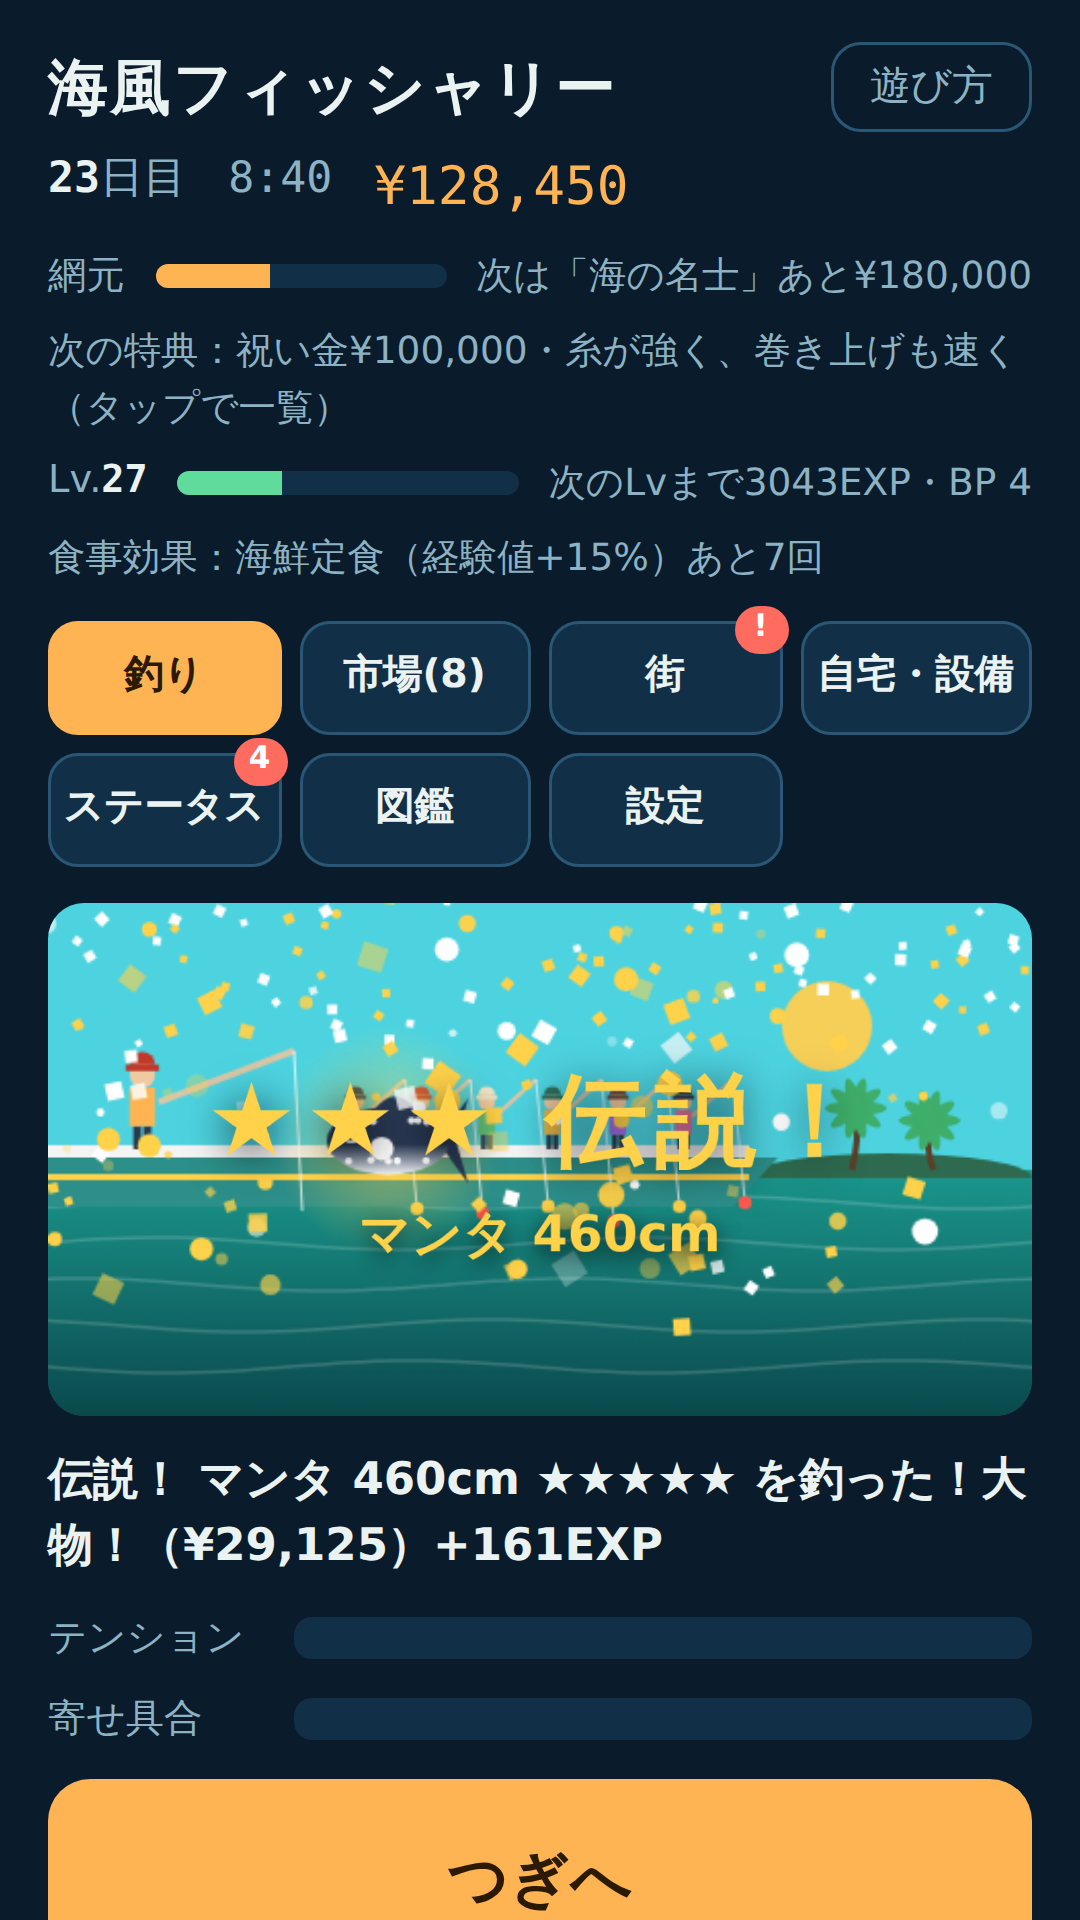
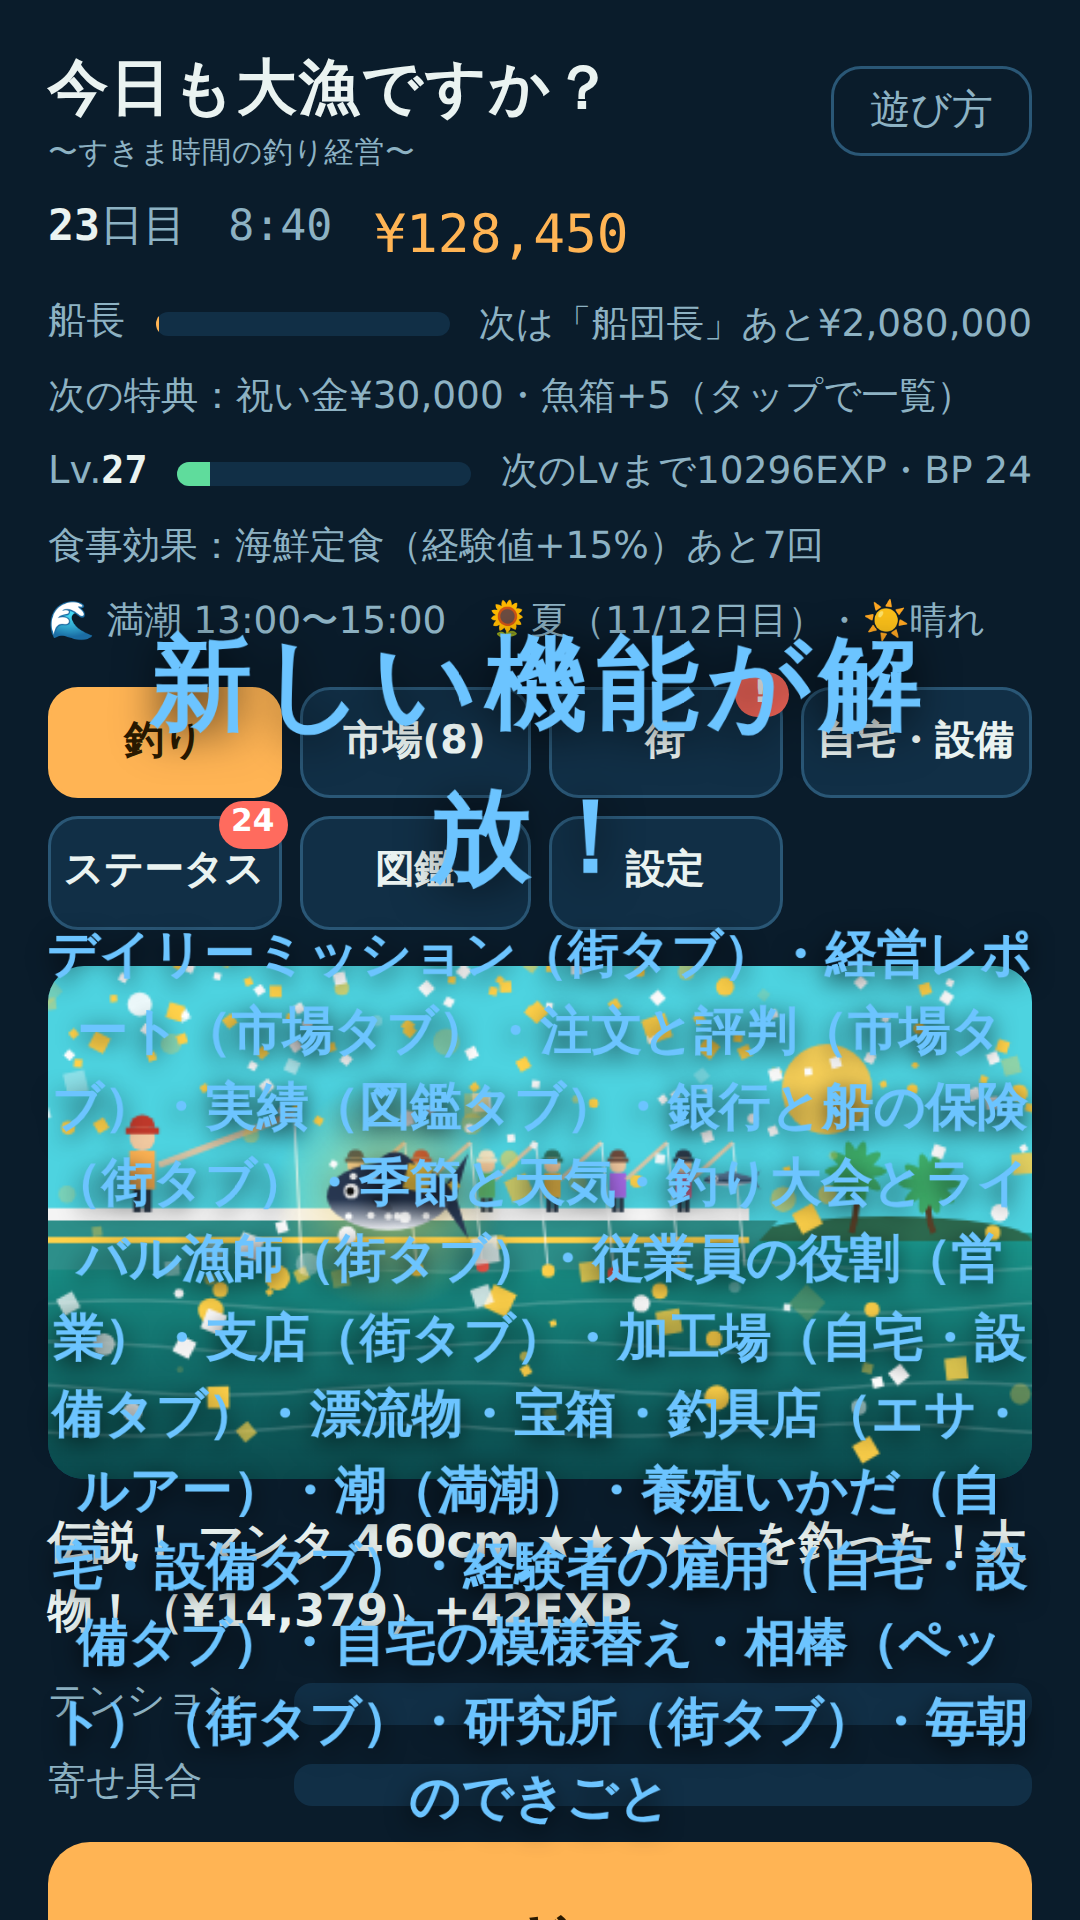
タイトルを「今日も大漁ですか？ 〜すきま時間の釣り経営〜」に変更。ストア掲載文と画像を、現在の内容に合わせて更新
Claude-Session: https://claude.ai/code/session_01R5d2LTgFSzZwqgPyhccd1a

diff --git a/fishery-game/index.html b/fishery-game/index.html
@@ -1,4 +1,4 @@
-<title>海風フィッシャリー</title>
+<title>今日も大漁ですか？</title>
 <link rel="preconnect" href="https://fonts.googleapis.com">
 <link rel="stylesheet" href="https://fonts.googleapis.com/css2?family=Zen+Maru+Gothic:wght@500;700;900&family=DM+Mono:wght@500&display=swap">
 <style>
@@ -19,6 +19,7 @@ button{font:inherit;color:inherit;cursor:pointer}
 header{display:flex;flex-wrap:wrap;gap:6px 12px;align-items:center;justify-content:space-between;margin-bottom:10px}
 #help{padding:4px 12px;font-size:.85rem}
 h1{font-size:1.25rem;font-weight:900;margin:0;letter-spacing:.04em}
+h1 small{display:block;font-size:.62rem;font-weight:500;color:var(--sub);letter-spacing:.02em;margin-top:1px}
 .hud{display:flex;gap:14px;flex-wrap:wrap;color:var(--sub);font-size:.9rem}
 .hud b{color:var(--fg)}
 #money{color:var(--accent);font-size:1.1rem}
@@ -108,7 +109,7 @@ textarea{width:100%;min-height:76px;background:var(--panel);color:var(--fg);bord
 </style>
 
 <header>
-  <h1>海風フィッシャリー</h1><span class="hb"><button class="ghost" id="help">遊び方</button></span>
+  <h1>今日も大漁ですか？<small>〜すきま時間の釣り経営〜</small></h1><span class="hb"><button class="ghost" id="help">遊び方</button></span>
   <div class="hud"><span><b id="day" class="num">1</b>日目</span><span id="clock" class="num">6:00</span><span id="money" class="num">¥500</span></div>
   <div class="rank" id="rankbox" role="button" tabindex="0" aria-label="ランクと特典を見る"><span id="rank">見習い漁師</span><div class="bar"><i id="goal"></i></div><span class="nx" id="goalv"></span></div>
   <div class="perkline" id="perk"></div>
@@ -1795,9 +1796,9 @@ function bindCloud(){
 function notifyPlan(){
   if(!window.AppNotify||G.noNotif)return;
   const now=Date.now(),items=[];
-  if(G.crew>0)items.push({k:'away',at:now+8*3600e3,title:'海風フィッシャリー',body:'漁師たちの留守の水揚げが満タンです。受け取りに戻ろう！'});
+  if(G.crew>0)items.push({k:'away',at:now+8*3600e3,title:'今日も大漁ですか？',body:'漁師たちの留守の水揚げが満タンです。受け取りに戻ろう！'});
   const d=new Date();d.setHours(19,0,0,0);if(!(dailyReady()&&d.getTime()>now))d.setDate(d.getDate()+1);
-  items.push({k:'daily',at:d.getTime(),title:'海風フィッシャリー',body:'今日のデイリーボーナス（おまかせ釣り券・食事券）を受け取ろう'});
+  items.push({k:'daily',at:d.getTime(),title:'今日も大漁ですか？',body:'今日のデイリーボーナス（おまかせ釣り券・食事券）を受け取ろう'});
   AppNotify.schedule(items);
 }
 function renderSet(){

diff --git a/fishery-game/app/public/privacy.html b/fishery-game/app/public/privacy.html
@@ -1,10 +1,10 @@
 <!doctype html>
 <html lang="ja"><head><meta charset="utf-8"><meta name="viewport" content="width=device-width,initial-scale=1">
-<title>プライバシーポリシー - 海風フィッシャリー</title>
+<title>プライバシーポリシー - 今日も大漁ですか？</title>
 <style>body{font-family:system-ui,"Hiragino Sans","Noto Sans JP",sans-serif;max-width:720px;margin:0 auto;padding:24px 16px;line-height:1.8;color:#222}h1{font-size:1.5rem}h2{font-size:1.15rem;margin-top:2em}.note{background:#fff3cd;padding:8px 12px;border-radius:6px;font-size:.9rem}</style></head><body>
 <h1>プライバシーポリシー</h1>
 <p class="note">【下書き】公開前に、【　】の部分を埋め、内容をご自身の運営実態に合わせて確認してください。</p>
-<p>【運営者名】（以下「運営者」）は、ゲームアプリ「海風フィッシャリー」（以下「本アプリ」）における、利用者の情報の取り扱いを、以下のとおり定めます。</p>
+<p>【運営者名】（以下「運営者」）は、ゲームアプリ「今日も大漁ですか？」（以下「本アプリ」）における、利用者の情報の取り扱いを、以下のとおり定めます。</p>
 
 <h2>1. 取得する情報</h2>
 <ul>

diff --git a/fishery-game/app/public/delete-account.html b/fishery-game/app/public/delete-account.html
@@ -1,10 +1,10 @@
 <!doctype html>
 <html lang="ja"><head><meta charset="utf-8"><meta name="viewport" content="width=device-width,initial-scale=1">
-<title>アカウント削除のご案内 - 海風フィッシャリー</title>
+<title>アカウント削除のご案内 - 今日も大漁ですか？</title>
 <style>body{font-family:system-ui,"Hiragino Sans","Noto Sans JP",sans-serif;max-width:720px;margin:0 auto;padding:24px 16px;line-height:1.8;color:#222}h1{font-size:1.5rem}h2{font-size:1.15rem;margin-top:2em}.note{background:#fff3cd;padding:8px 12px;border-radius:6px;font-size:.9rem}</style></head><body>
 <h1>アカウントとデータの削除</h1>
 <p class="note">【下書き】【　】の部分を埋めてください。</p>
-<p>「海風フィッシャリー」で、Googleログインにより保存されたデータとアカウント情報は、次の方法で削除できます。</p>
+<p>「今日も大漁ですか？」で、Googleログインにより保存されたデータとアカウント情報は、次の方法で削除できます。</p>
 <h2>アプリから削除する（おすすめ）</h2>
 <ol>
 <li>アプリを開き、下のメニューの「設定」を開きます。</li>

diff --git a/fishery-game/app/store/STORE_LISTING.md b/fishery-game/app/store/STORE_LISTING.md
@@ -4,54 +4,52 @@
 
 ## アプリ名（30文字以内）
 ```
-海風フィッシャリー
+今日も大漁ですか？ 〜すきま時間の釣り経営〜
 ```
-候補（検索で見つけてもらいやすい形）: `海風フィッシャリー - 釣り船経営ゲーム`
+（約24文字。Google Playのアプリ名は30文字まで）
+候補（検索で見つけてもらいやすい形）: `今日も大漁ですか？ - 釣り経営ゲーム`
 
 ## 短い説明（80文字以内）
 ```
-釣って、売って、育てる。魚を釣り上げ、船と仲間を増やして大漁を目指す、のんびり釣り船経営ゲーム。
+すきま時間で遊べる、のんびり釣り経営ゲーム。釣って、売って、船と仲間を育てて、漁業王を目指そう。
 ```
 
 ## 詳しい説明（4000文字以内）
 ```
-海風フィッシャリーは、釣りの手応えと、船・お店の経営を一緒に楽しめるシミュレーションゲームです。
-魚を釣って、売って、設備と仲間を増やして、海の経営者「漁業王」を目指しましょう。
+「今日も大漁ですか？」は、すきま時間に遊べる、釣りと経営のシミュレーションゲームです。
+魚を釣って、売って、船と仲間と施設を育てて、海の経営者「漁業王」を目指しましょう。
+1日1時間ほどのんびり遊んで、1〜2か月で駆け抜ける想定です。
 
 ■ 手応えのある釣り
 ・浮きが沈んだ瞬間にアワセて、ボタンを押し続けて巻き上げます。
 ・魚が暴れたら指を離して、テンションを逃がします。糸が切れる前に寄せきろう。
-・暴れる魚は、向きを変えたり、水しぶきを上げたりして、動きで分かります。
 ・レアな魚は、アタリの時点で気配が違います。釣り上げたときの演出も、お楽しみに。
+・季節や天気、満潮の時間、エサの好みで、釣れる魚が変わります。
 
-■ 6つの海域と、56種類の魚
-・港の堤防、沖合、深海、サンゴ礁の島、氷海、幻の海域。
-・海域ごとに違う魚がいます。大きさにも個体差があり、大きい魚ほど高く売れます。
-・図鑑には、釣った魚の最大・最小サイズが、★で記録されます。
-・その海域の魚を全種類釣ると、コンプボーナス。
-
-■ 海域の「主」に挑戦
-・コンプした海域には、低確率で「主」が現れます。
-・主はとても強く、奥の海域ほど手強くなります。準備を整えて挑もう。
-・負けてしまっても、どのステータスがどのくらい必要か、目安を教えてくれます。
+■ 10の海域と、88種類の魚
+・港の堤防から、沖合、深海、サンゴ礁の島、氷海、幻の海域。さらに、海底火山、沈没船の海域、極夜のオーロラ海、竜宮の海へ。
+・海域ごとに違う魚がいます。大きい魚ほど高く売れ、図鑑には最大・最小サイズが★で記録されます。
+・その海域の魚を全種類釣るとコンプボーナス。すると、強敵「主」が現れます。
+・図鑑が埋まるほど、食堂のメニューも増えていきます。
 
 ■ 売って、育てて、経営する
-・釣った魚は、市場で売ります。相場は毎日変わり、鮮度も値段に影響します。
-・釣り竿・釣り糸・エサ・クーラーボックス・直売所を強化。
-・小型ボートから、クルーザー、砕氷船、ムーンクラフトまで。船を買うと、新しい海域へ。
-・漁師を雇うと、釣り場で一緒に釣って、稼いでくれます。
-・1日の終わりには、自宅へ帰ります。自宅・生け簀・魚拓棚を育てて、暮らしを豊かに。
+・市場の相場は毎日変わります。同じ魚を売りすぎると値崩れするので、直売所の枠や加工も使い分けよう。
+・常連さんからの「注文」に応えると、いつもより高く買い取ってもらえます。
+・従業員は、釣り師か営業かを選べ、特性やレベルで成長します。給料もかかるので、人件費とのバランスが腕の見せどころ。
+・加工場で干物や缶詰に、養殖いかだで魚を大きく育てることもできます。
+・夜の収支レポートで、収入・経費・稼ぎ頭の魚をチェック。銀行で借りたり、船の保険に入ったり、研究所で技術を磨いたり。
+・毎週のライバル漁師との売上競争、釣り大会も開催。
 
 ■ 成長する楽しみ
-・魚を釣ると経験値。レベルが上がると、ステータスがランダムに成長します。
-・ボーナスポイントを、力・体力・素早さ・器用さ・運に自由に振り分け。
-・ランクが上がると、祝い金と特典がもらえます。
+・魚を釣ると経験値。レベルが上がると、8つのステータスがランダムに成長します。
+・ボーナスポイントを、力・体力・素早さ・器用さ・運・集中力・商才・統率力に自由に振り分け。
+・実績やデイリーミッションで、ごほうびをゲット。相棒のペットや、自宅の模様替えも。
+・遊び進めるほど、新しい機能が少しずつ解放されます。
 
 ■ 忙しい人にもやさしい
 ・「おまかせ釣り」で、釣りを自動で進められます。
-・街の食堂で外食すると、経験値アップなどの効果が付きます。
 ・毎日開くだけでもらえる、デイリーボーナス。
-・アプリを閉じている間も、漁師が働いて稼いでくれます（最大8時間）。
+・アプリを閉じている間も、従業員が働いて稼いでくれます（最大8時間）。
 ・魚箱がいっぱいのときに、自動で売る設定も。
 
 ■ データの引き継ぎも安心
@@ -87,10 +85,10 @@
 2. 海域の主との、手に汗握る戦い
 3. レアな魚を釣り上げた！
 4. 自宅と施設が、育っていく
-5. 外食・切符・デイリーボーナス
-6. レベルと、5つのステータス
+5. 街：デイリーミッション・研究所・釣り大会
+6. レベルと、8つのステータス
 7. 図鑑とエリアコンプ
-8. 釣った魚を、市場で売る
+8. 注文・加工・収支レポートで、魚を売る
 
 ※ スクリーンショットは、実際のゲーム画面です（加工していません）。
 
@@ -100,12 +98,12 @@
 - アカウント削除: アプリの「設定」→「データの引き継ぎ」→「アカウントとクラウドのデータを削除」。
 
 ## 英語版（任意）
-**Title**: `Umikaze Fishery`
+**Title**: `Big Catch Today? - Fishing Tycoon`
 
 **Short description (80)**
 ```
-Catch fish, sell them, grow your fishing fleet. A relaxed fishing business game.
+A relaxed fishing business game for spare moments. Catch, sell, and grow your fleet.
 ```
 
-**Subtitle for the App Store (30)**: `釣り船経営シミュレーション`
+**Subtitle for the App Store (30)**: `すきま時間の釣り経営`
 **Keywords for the App Store (100)**: `釣り,つり,経営,シミュレーション,放置,魚,図鑑,育成,のんびり,フィッシング`

diff --git a/fishery-game/IDEAS.md b/fishery-game/IDEAS.md
@@ -1,4 +1,4 @@
-# 海風フィッシャリー 追加アイデア集
+# 今日も大漁ですか？ 〜すきま時間の釣り経営〜 追加アイデア集
 
 実装済み: 収支レポート／需給・直売所の枠／従業員の育成（役割・Lv・昇給・特性・経験者の雇用）／銀行／船の維持費／毎朝のできごと／注文・評判／実績／加工場／季節・天気・潮／釣り大会／ライバル漁師（週間売上）／研究所／支店（産地ブランド）／保険と故障／エサ・ルアー／養殖／漂流物・宝箱／相棒（ペット）／模様替え／デイリーミッション／通知（アプリ版）／**機能の段階解放**
 保留: A8 先物・予約販売／C4 広告・課金／C5 ランキング　将来: C6 英語対応

diff --git a/fishery-game/app/README.md b/fishery-game/app/README.md
@@ -1,4 +1,4 @@
-# 海風フィッシャリー — Androidアプリ化（Capacitor + Firebase + Googleログイン）
+# 今日も大漁ですか？ 〜すきま時間の釣り経営〜 — Androidアプリ化（Capacitor + Firebase + Googleログイン）
 
 ゲーム本体は、1つのHTMLファイル（`../index.html`）です。このフォルダは、それを **Androidアプリ**として包み、
 **Googleログインでデータを引き継げる**ようにするための部品です。
